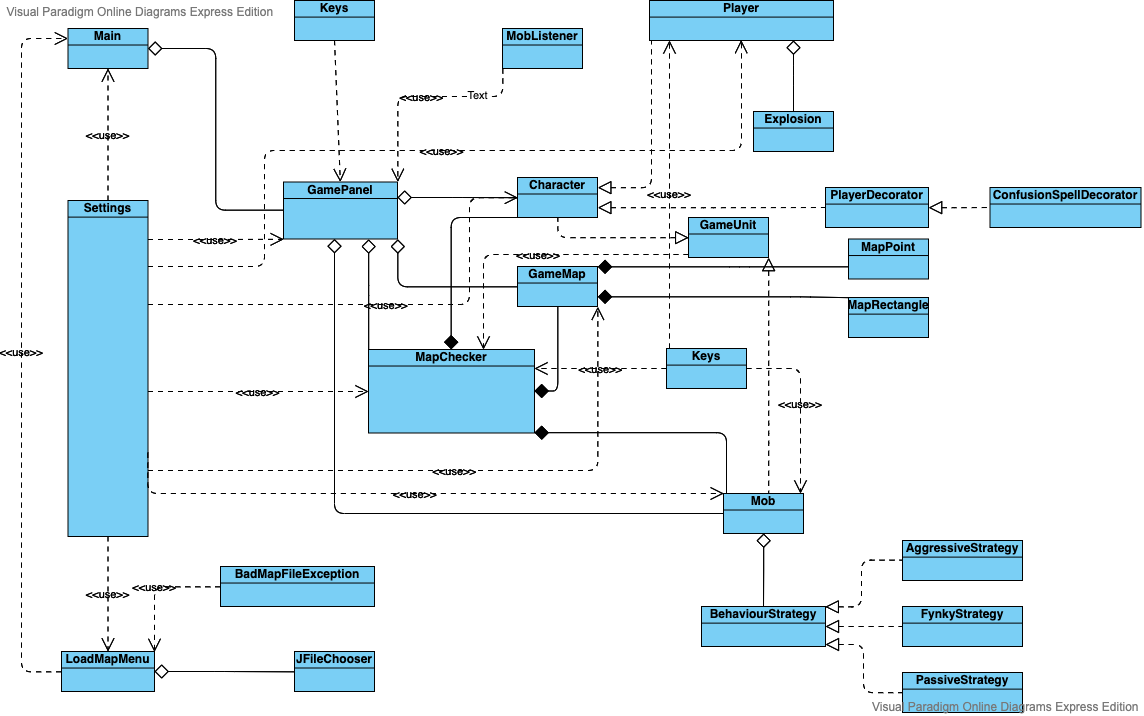
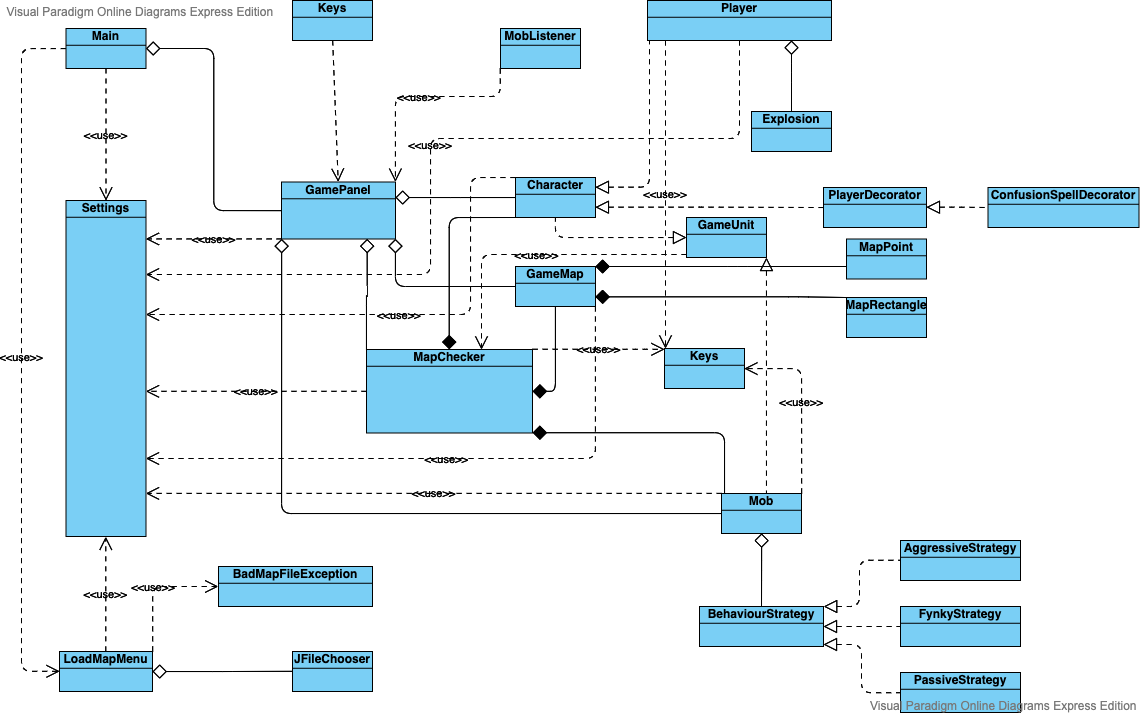
update classes diagram and README.md

diff --git a/README.md b/README.md
@@ -9,17 +9,17 @@ roguelike game on kotlin
 
 За это отвечает класс `LoadMapMenu`, который для загрузки карты из файла использует `JFileChooser` из библиотеки `Swing`.  
 
-Kласс `Map` отвечает за карту. Он состоит из точек класса `MapPoint`
+Kласс `Map` отвечает за карту. Он состоит из точек класса `MapPoint`.
 
 
-`GamePanel` - главное окно взаимодействия. В этом классе написана логика отрисовки персонажа и взаимодейтсвие с клавиатурой.
-При нажатии кнопок *WASD* у персонажа обновляются координаты и при ререндиренге он отрисовывается уже в другом месте.
+`GamePanel` - главное окно взаимодействия. В этом классе написана логика отрисовки персонажа и взаимодействие с клавиатурой.
+При нажатии кнопок *WASD* у персонажа обновляются координаты и при ререндеринге он отрисовывается уже в другом месте.
 
-За игрока отвечает интерфейс `Character`, от которого есть базовая реализация игрока `Player`, а есть абстрактный
-декотора `PlayerDecorator`, реализация которого `ConfusionSpellDecorator` отвечается за заклинание конфузии, которое
-накладывается на игрока временно при наступлении на соответствующую клетку карты.
+За игрока отвечает интерфейс `Character`, от которого есть базовая реализация игрока `Player`, а есть абстрактный класс
+декоратора `PlayerDecorator`, имплементация которого (`ConfusionSpellDecorator`) отвечает за заклинание конфузии, которое
+временно накладывается на игрока при перемещении на соответствующую клетку карты.
 
-Мобы(класс `Mob`), как и первонаж реализуют интерфейс `GameUnit` для движения по карте. При нахождении в радиусе атаки
+Мобы(класс `Mob`), как и персонаж, реализуют интерфейс `GameUnit` для движения по карте. При нахождении в радиусе атаки
 игрок клавишей `ENTER` может атаковать мобов, а они будут атаковать его. Есть три вида мобов по поведению, это
 реализовано с помощью паттерна стратегия посредством абстрактного класса `BehaviourStrategy`, три имплементации которого
 соответствуют трем разным поведениям.
